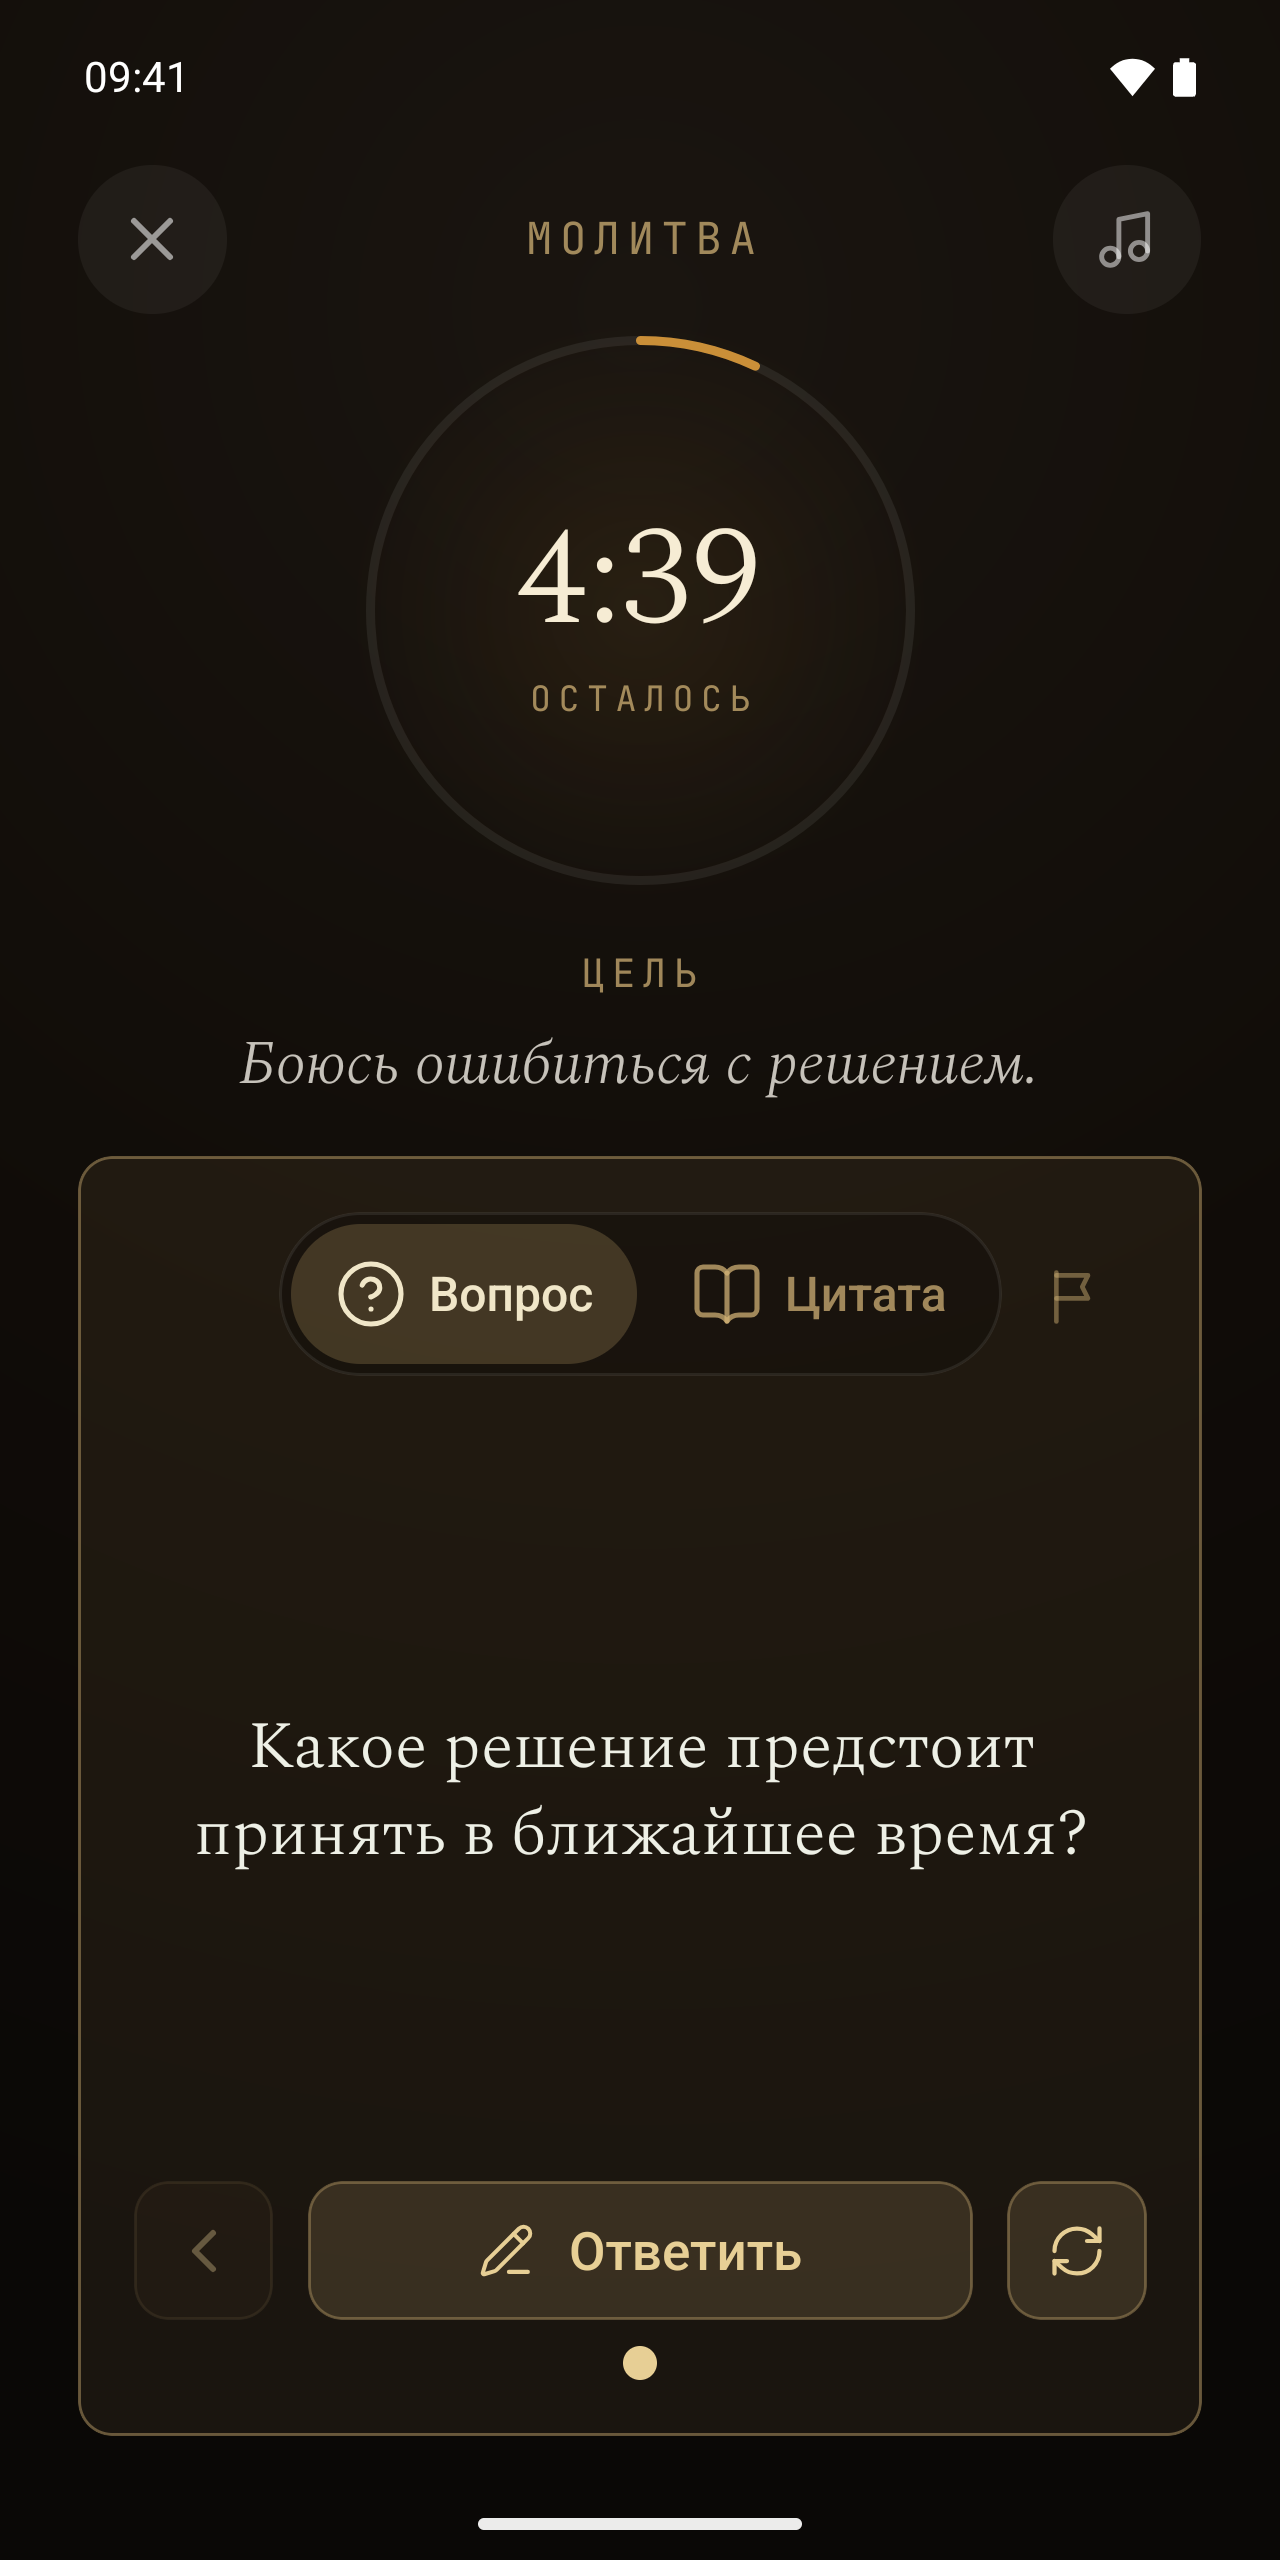
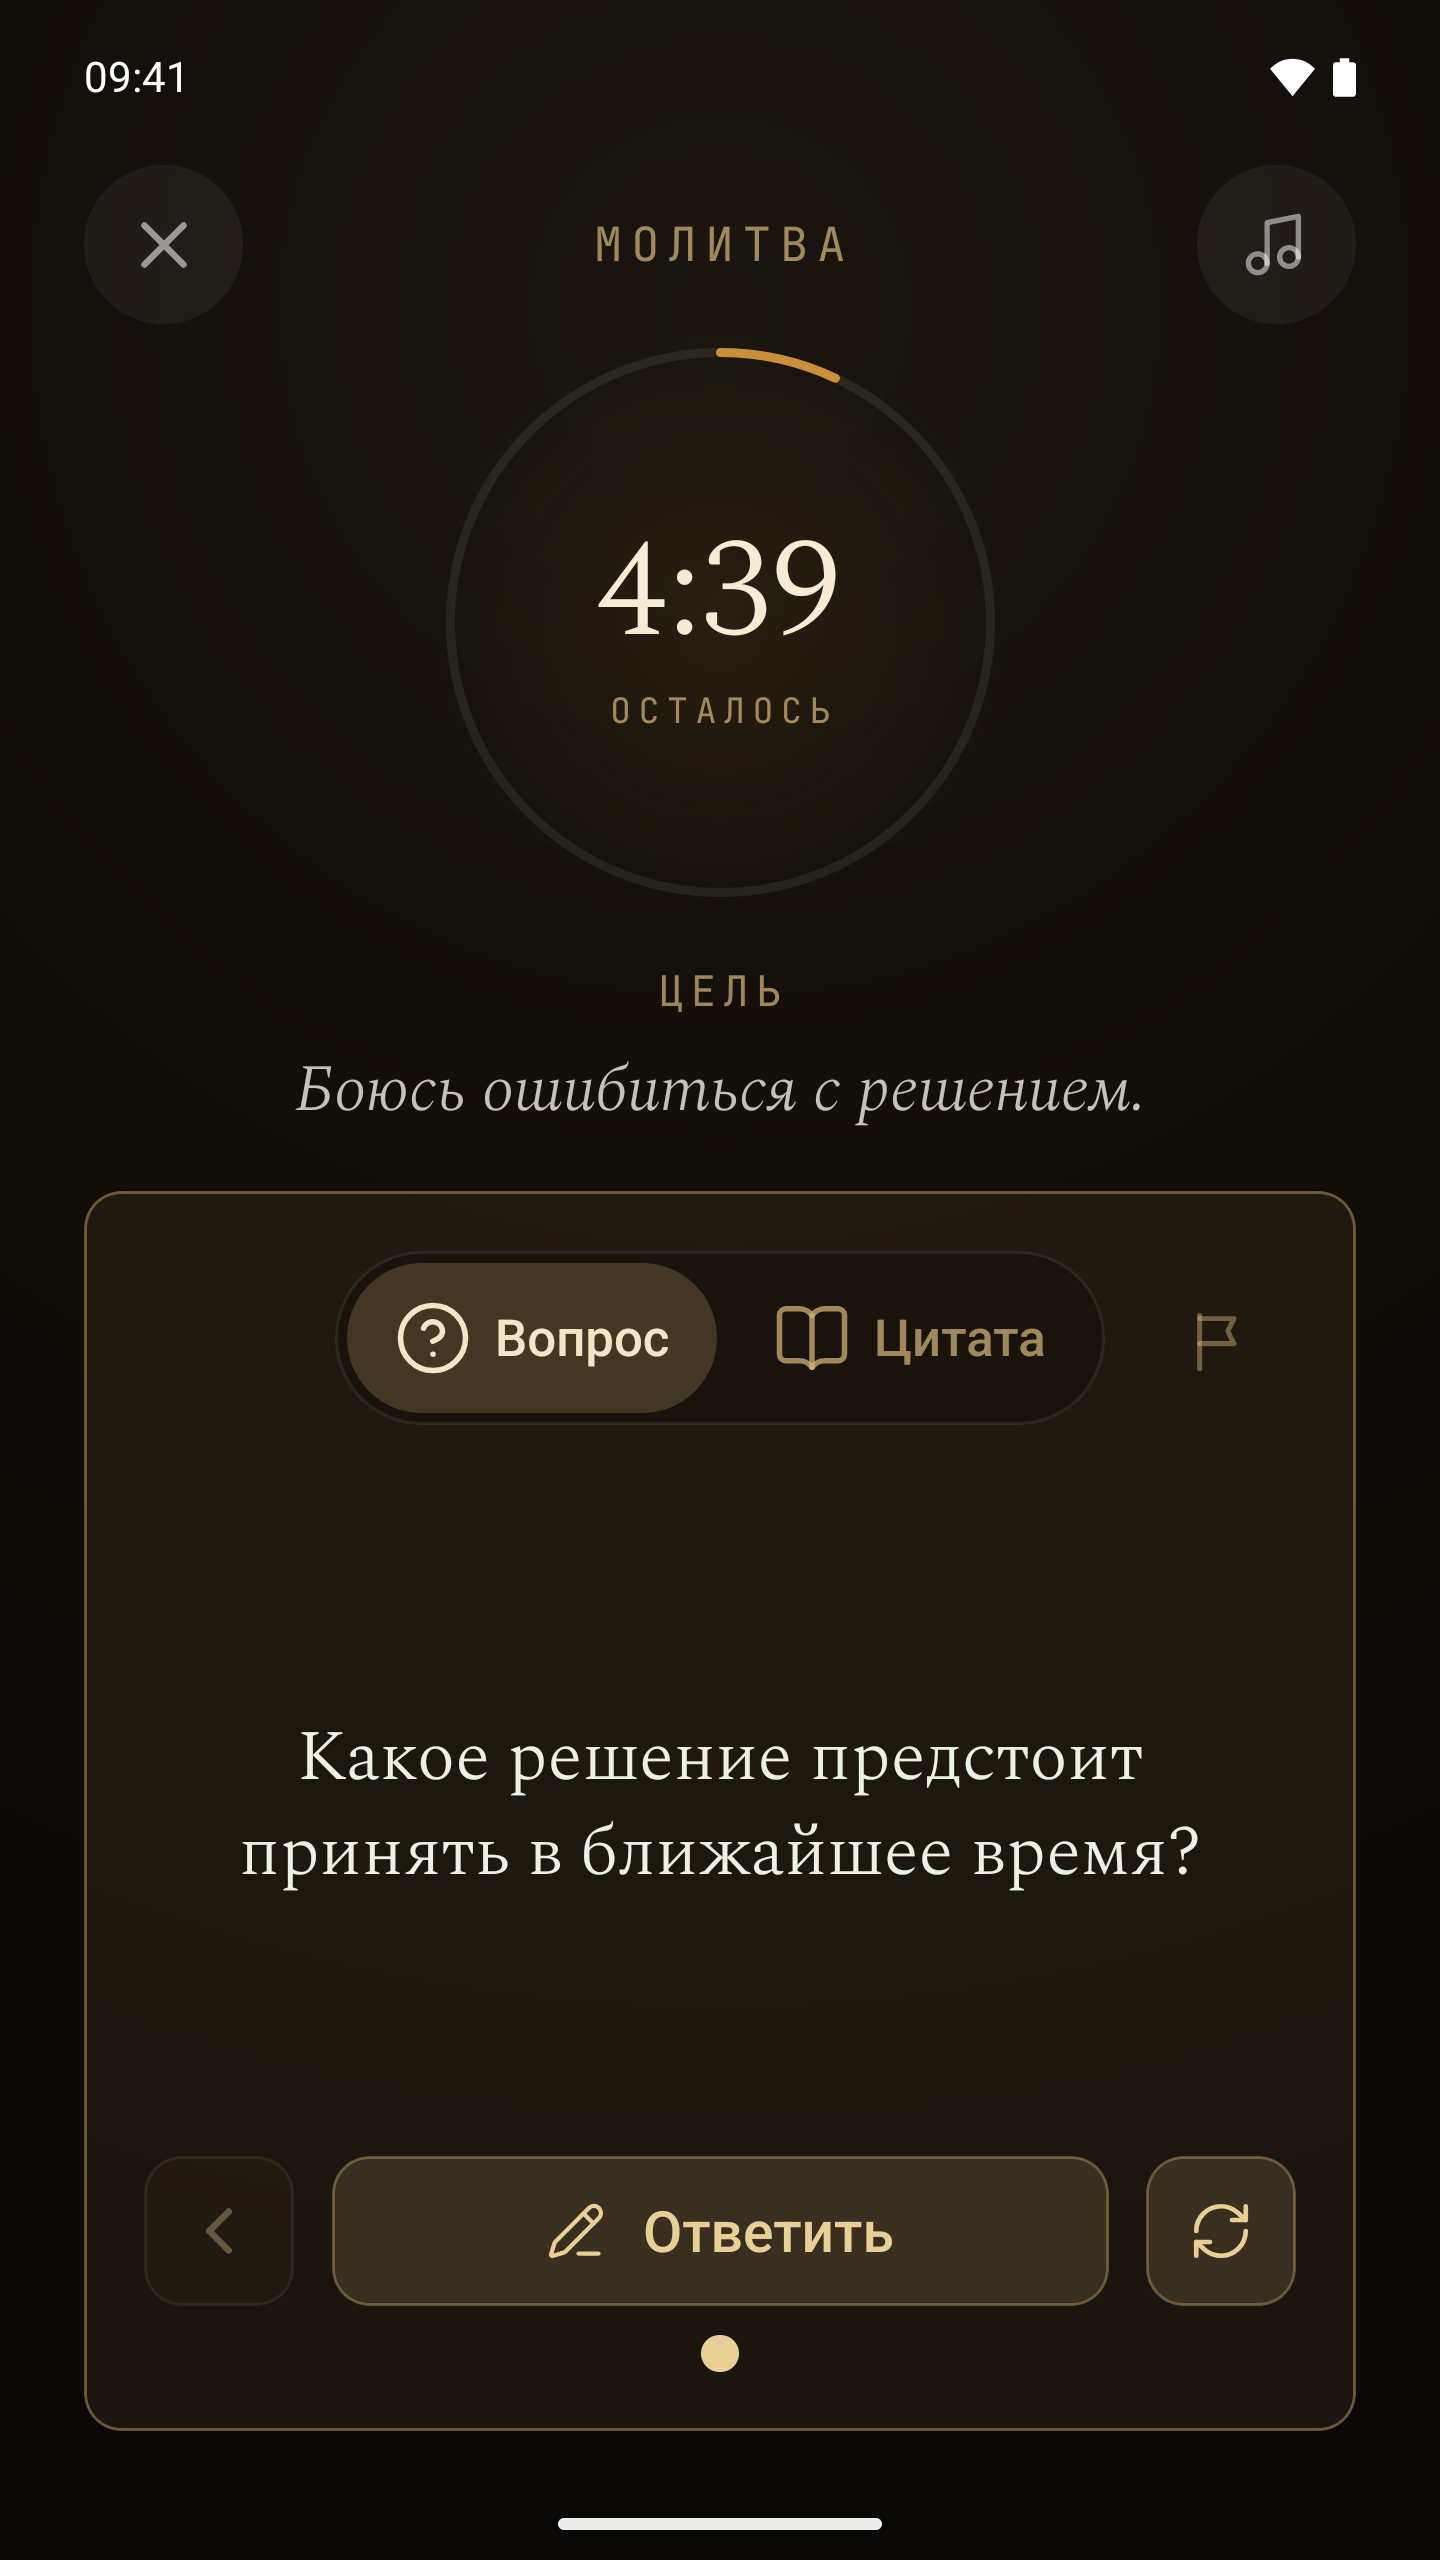
chore(store): recapture Play phone screenshots at 9:16 (#50)
* chore(store): capture 9:16 Play phone screenshots

* fix(store): harden Play screenshot capture tooling

---------

diff --git a/store/README.md b/store/README.md
@@ -329,24 +329,52 @@ not suitable for the Play listing.
 
 ### Android screenshots
 
-The 24 Play phone images in `screenshots/android-phone-*.png` were captured on
-2026-10-12 at 1280×2560 for `ru`, `uk` and `en`. Their Play-only copy lives in
+Play accepts phone screenshots only at 16:9 or 9:16, each side 320–3840 px.
+The 24 `ru`, `uk` and `en` images in `screenshots/android-phone-*.png` were
+captured on 2026-10-14 at 1440×2560 (9:16), checked from each PNG header and
+visually reviewed against the approved scenes. Their Play-only copy lives in
 `screenshots/android-fixtures/`; the capture script builds a complete fixture
-from `video/demo-content.json`. `scripts/capture-play-screenshots.sh
-<ru|uk|en>` rebuilds a test-channel Release APK against the shared
-`scripts/appstore-video-mock.py`, seeds the signed test database, and runs
-`testing/screens/play-screens-{1,2}.yaml`. It writes eight PNGs and full logs
-to a printed temporary directory for review; it does not overwrite approved
-images. Do not run capture just to check the tooling.
+from `video/demo-content.json`. The prayer timer and saved duration vary with
+emulator speed; the screens and fixture content are the stable references.
+`scripts/capture-play-screenshots.sh <ru|uk|en>` uses a test-channel Release APK
+against the shared `scripts/appstore-video-mock.py`, seeds the signed test
+database, and runs `testing/screens/play-screens-{1,2}.yaml`. It writes eight
+PNGs and full logs to a printed temporary directory for review, fails if any
+PNG is not exactly 1440×2560, and does not overwrite approved images. Do not
+run capture just to check the tooling.
+
+To build the capture APK and signed database probe once, run from the repo root:
+
+```sh
+export ANDROID_HOME="$HOME/Library/Android/sdk"
+export EXPO_NO_DOTENV=1 EXPO_PUBLIC_API_URL=http://10.0.2.2:9086
+export EXPO_PUBLIC_AI_PROXY_KEY=video-preview-mock EXPO_PUBLIC_BUILD_CHANNEL=test
+npx expo prebuild --platform android
+(cd android && NODE_ENV=production ./gradlew assembleRelease)
+export ANDROID_PROBE_OUTPUT="$(mktemp -d "${TMPDIR:-/tmp}/lampada-play-probe.XXXXXX")"
+bash scripts/build-android-test-probe.sh
+export PLAY_CAPTURE_APK="$PWD/android/app/build/outputs/apk/release/app-release.apk"
+export PLAY_CAPTURE_PROBE_APK="$ANDROID_PROBE_OUTPUT/LampadaTestProbe.apk"
+```
+
+Both APK paths are required together; without them the capture script builds
+both APKs. Before installation it checks that the APK bundle contains the mock
+URL and key, then compares the installed APK byte for byte with that verified
+file. The signed probe checks the test build channel. Gradle is stopped when
+`android/` exists. Run one language at a time; the script waits for the guest
+and capture database to become ready.
 
 Use only `emulator-5554` running the `Pray_Pixel_API_35` AVD. Start it as in
 `testing/README.md` after `setopt NO_BG_NICE`; set
 `ANDROID_HOME=~/Library/Android/sdk` before invoking the script. The script
-sets `wm size 1280x2560`, demo mode (09:41, full battery and Wi-Fi), the local
-mock and screenshot seed. On exit it restores the prior display overrides,
-demo-mode setting, timezone, automatic-timezone setting and spell-checker setting,
-removes the mock app and probe, and stops the mock and Gradle. Shut down
-the emulator when finished. Never use a connected physical device.
+sets `wm size 1440x2560` and `wm density 480`, giving 480×853 dp: the same
+height as the approved 1280×2560 set with a slightly wider viewport. It also
+selects a timezone where the local hour is 08–11 to match the 09:41 demo clock,
+then sets demo mode (full battery and Wi-Fi), the local mock and screenshot
+seed. On exit it restores the prior display overrides, demo-mode setting,
+timezone, automatic-timezone setting and spell-checker setting, removes the
+mock app and probe, and stops the mock and Gradle. Shut down the emulator when
+finished. Never use a connected physical device.
 
 ### Closed testing
 
